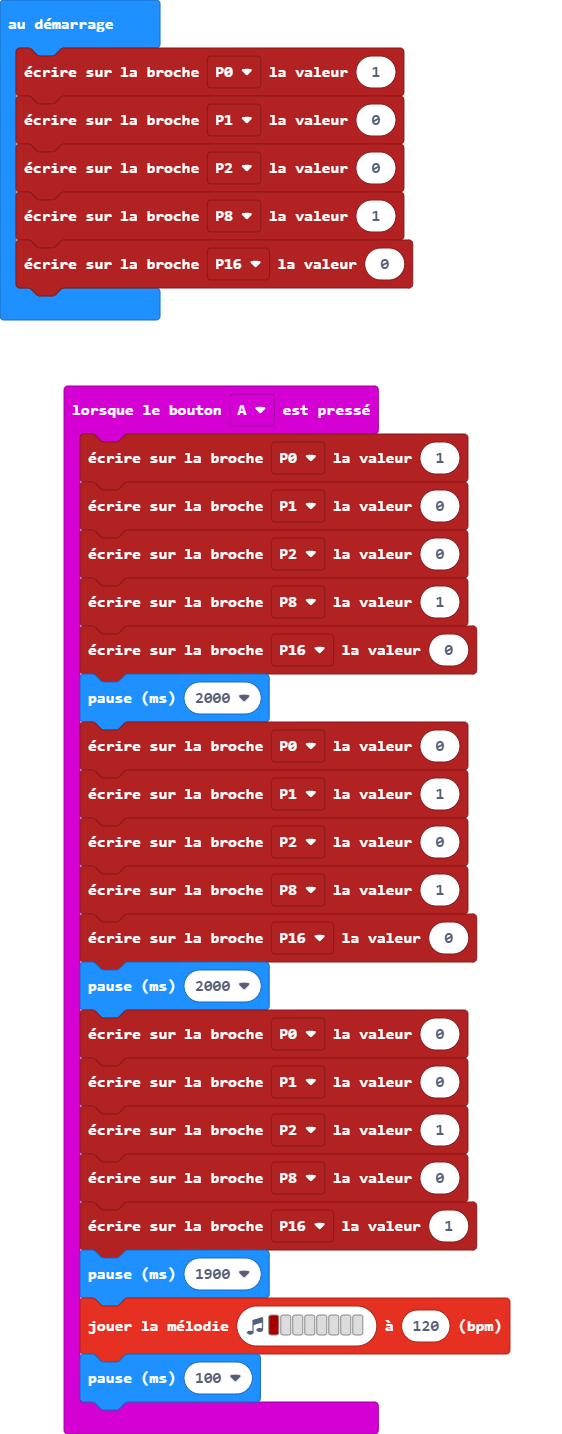
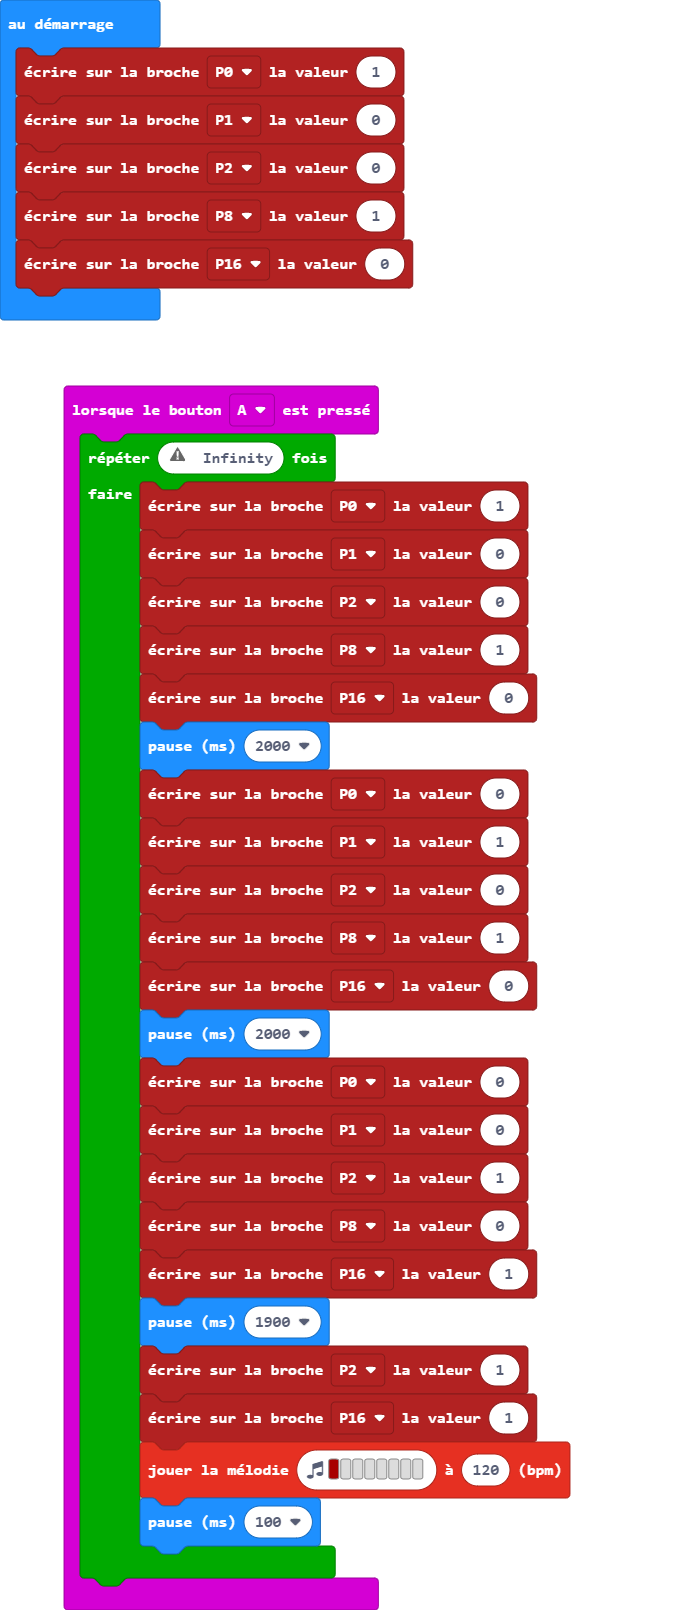
Mettre à jour main.blocks, main.ts

diff --git a/main.ts b/main.ts
@@ -1,24 +1,26 @@
 input.onButtonPressed(Button.A, function () {
-    pins.digitalWritePin(DigitalPin.P0, 1)
-    pins.digitalWritePin(DigitalPin.P1, 0)
-    pins.digitalWritePin(DigitalPin.P2, 0)
-    pins.digitalWritePin(DigitalPin.P8, 1)
-    pins.digitalWritePin(DigitalPin.P16, 0)
-    basic.pause(2000)
-    pins.digitalWritePin(DigitalPin.P0, 0)
-    pins.digitalWritePin(DigitalPin.P1, 1)
-    pins.digitalWritePin(DigitalPin.P2, 0)
-    pins.digitalWritePin(DigitalPin.P8, 1)
-    pins.digitalWritePin(DigitalPin.P16, 0)
-    basic.pause(2000)
-    pins.digitalWritePin(DigitalPin.P0, 0)
-    pins.digitalWritePin(DigitalPin.P1, 0)
-    pins.digitalWritePin(DigitalPin.P2, 1)
-    pins.digitalWritePin(DigitalPin.P8, 0)
-    pins.digitalWritePin(DigitalPin.P16, 1)
-    basic.pause(1900)
-    music.playMelody("C5 - - - - - - - ", 120)
-    basic.pause(100)
+    for (let index = 0; index < 1e+208; index++) {
+        pins.digitalWritePin(DigitalPin.P0, 1)
+        pins.digitalWritePin(DigitalPin.P1, 0)
+        pins.digitalWritePin(DigitalPin.P2, 0)
+        pins.digitalWritePin(DigitalPin.P8, 1)
+        pins.digitalWritePin(DigitalPin.P16, 0)
+        basic.pause(2000)
+        pins.digitalWritePin(DigitalPin.P0, 0)
+        pins.digitalWritePin(DigitalPin.P1, 1)
+        pins.digitalWritePin(DigitalPin.P2, 0)
+        pins.digitalWritePin(DigitalPin.P8, 1)
+        pins.digitalWritePin(DigitalPin.P16, 0)
+        basic.pause(2000)
+        pins.digitalWritePin(DigitalPin.P0, 0)
+        pins.digitalWritePin(DigitalPin.P1, 0)
+        pins.digitalWritePin(DigitalPin.P2, 1)
+        pins.digitalWritePin(DigitalPin.P8, 0)
+        pins.digitalWritePin(DigitalPin.P16, 1)
+        basic.pause(1900)
+        music.playMelody("C5 - - - - - - - ", 120)
+        basic.pause(100)
+    }
 })
 pins.digitalWritePin(DigitalPin.P0, 1)
 pins.digitalWritePin(DigitalPin.P1, 0)
